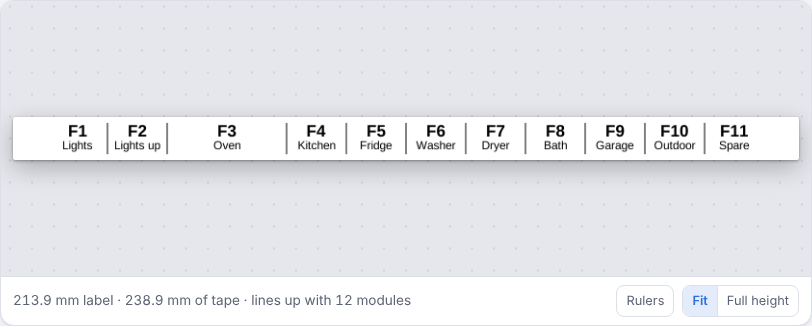
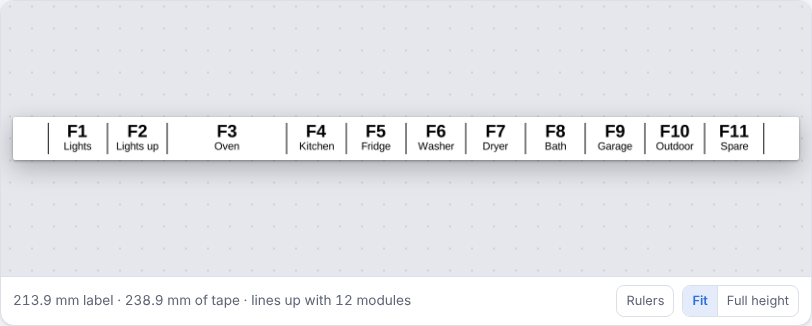
Breaker strip: close each end with a line and make names smaller than numbers
Every breaker now sits in a closed box, so the first and last ones no longer
look loose next to the blank tape at the ends, and the names are 0.6 of the
number size so the numbers stand out, as in the mock-up.

Claude-Session: https://claude.ai/code/session_015uD4MJjwAuabfwUbvYM8yY

Changed region(s): [[0.3695, 0.3681, 0.9236, 0.4601], [0.0616, 0.3681, 0.2155, 0.4601], [0.2463, 0.3988, 0.3079, 0.4601]]

diff --git a/tests/test_label_layouts.py b/tests/test_label_layouts.py
@@ -138,13 +138,16 @@ class TestBreakerStrip(unittest.TestCase):
             canvas = self._strip(breakers, breaker_module_mm=module)[0]
             self.assertEqual(canvas.width, round(14 * module / DOT_PITCH_MM))
 
-    def test_dividers_sit_between_breakers_not_inside_wide_ones(self):
+    def test_lines_close_each_breaker_but_not_inside_wide_ones(self):
         module = 17.5
         breakers = [{"modules": 1}, {"modules": 2}, {"modules": 1}]
         canvas, _, border, printable_h, _, _ = self._strip(breakers, breaker_module_mm=module, breaker_show="name")
         dividers = _runs(_ink_columns(canvas, border, border + printable_h))
-        self.assertEqual(len(dividers), 2)
-        for (first, last), modules in zip(dividers, (1, 3)):
+        # One at each end too, so every breaker sits in a closed box
+        self.assertEqual(len(dividers), 4)
+        self.assertEqual(dividers[0][0], 0)
+        self.assertEqual(dividers[-1][1], canvas.width - 1)
+        for (first, last), modules in zip(dividers[1:-1], (1, 3)):
             self.assertAlmostEqual((first + last + 1) / 2 * DOT_PITCH_MM, modules * module, delta=DOT_PITCH_MM)
 
     def test_numbers_count_up_past_blanks_and_keep_typed_ones(self):

diff --git a/core/label_renderer.py b/core/label_renderer.py
@@ -180,7 +180,7 @@ PORT_THICK_DIVIDER_DOTS = 5
 PORT_TEXT_MARGIN_DOTS = 8
 PORT_TEXT_V_MARGIN_DOTS = 4
 # A breaker's name next to its number, as a share of the number's size
-BREAKER_NAME_FACTOR = 0.72
+BREAKER_NAME_FACTOR = 0.6
 BREAKER_MAX_MODULES = 4
 # How far the marks where a cable flag folds reach in from the edges of the print
 FLAG_MARK_DOTS = 8
@@ -747,8 +747,9 @@ class LabelRenderer:
         edges = [int(round(m * module)) for m in starts]
         img_canvas = Image.new("RGB", (edges[-1], canvas_h), "white")
         draw = ImageDraw.Draw(img_canvas)
-        for x in edges[1:-1]:
-            left = x - PORT_DIVIDER_DOTS // 2
+        # A line between breakers, and one at each end, so every breaker sits in a closed box
+        for x in edges:
+            left = min(max(x - PORT_DIVIDER_DOTS // 2, 0), edges[-1] - PORT_DIVIDER_DOTS)
             draw.rectangle([left, print_border, left + PORT_DIVIDER_DOTS - 1, print_border + printable_h - 1], fill="black")
 
         font = config.font_name
